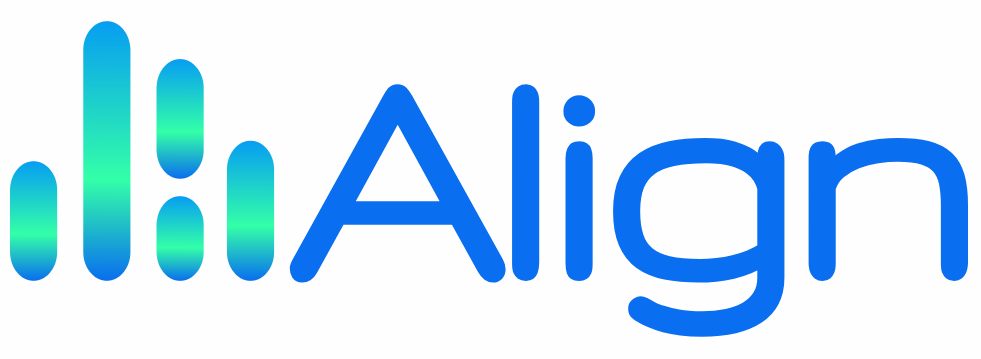
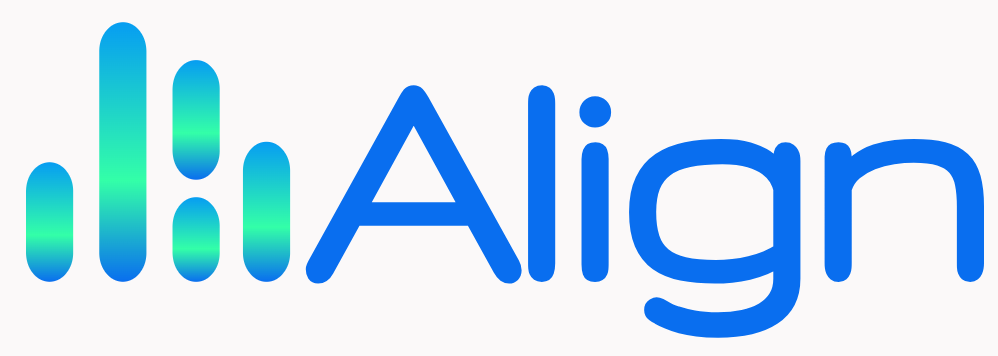
styling changes

diff --git a/templates/pages/login.html b/templates/pages/login.html
@@ -12,7 +12,7 @@
             <!-- Logo/Header -->
             <div class="text-center mb-8">
                 <div class="bg-white px-6 py-4 rounded-lg inline-block mb-4">
-                    <img src="/static/images/Align_large.png" alt="Align" class="h-24 mx-auto">
+                    <img src="/static/images/Align_large_white.png" alt="Align" class="h-24 mx-auto">
                 </div>
                 <p class="text-gray-600 mt-2">Sign in to your account</p>
             </div>
